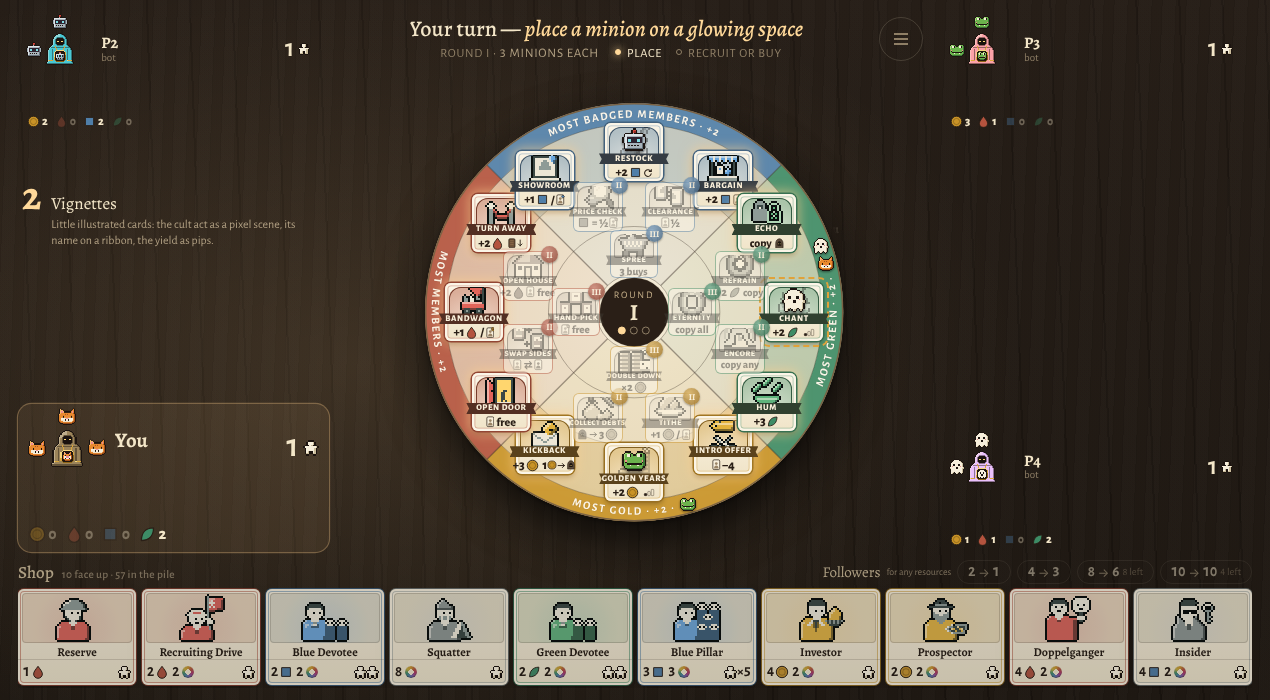
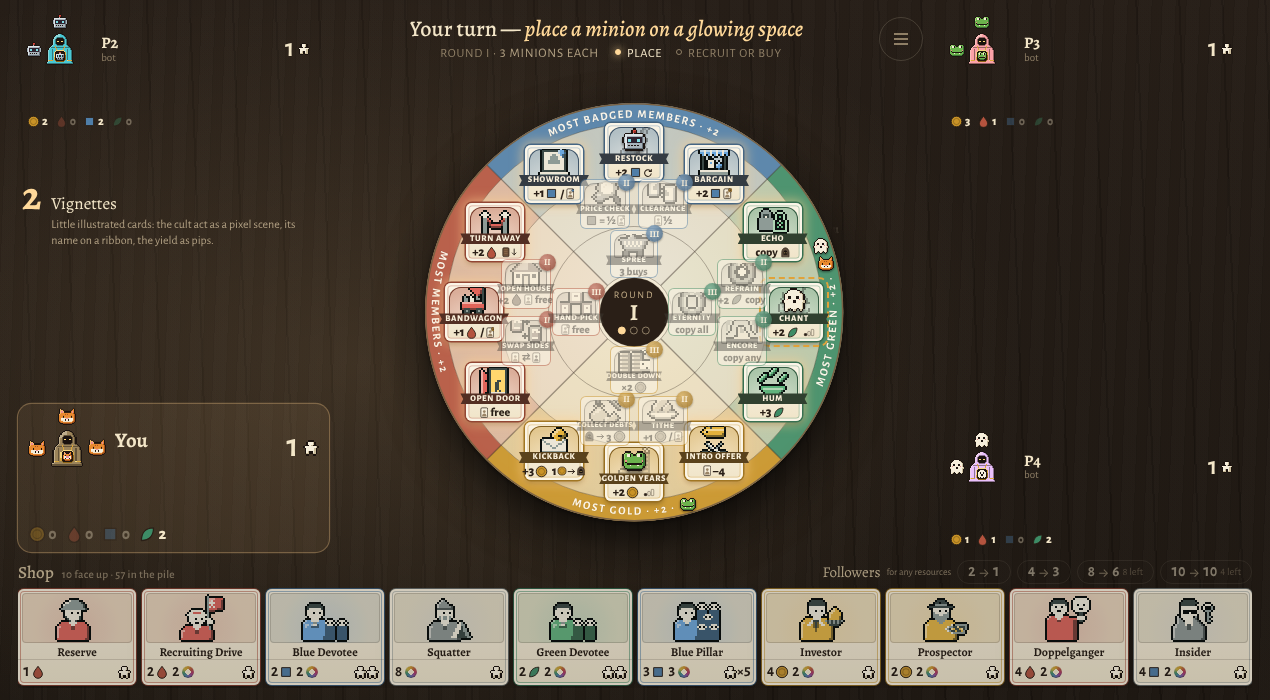
WIP checkpoint: agents in progress
Claude-Session: https://claude.ai/code/session_017rw3aQa9iJEjdvvwQLY84z

Changed region(s): [[0.3378, 0.18, 0.6449, 0.69]]

diff --git a/src/test/v4/ui/info.test.jsx b/src/test/v4/ui/info.test.jsx
@@ -4,8 +4,9 @@ import { render, fireEvent, cleanup, within } from '@testing-library/react';
 import { createGame, cardDef, defById, allQuadrantIds, quadrant } from '../../../engine/v4/index.js';
 import { guestMembers } from '../../../engine/v4/content/index.js';
 import { BADGE } from '../../../engine/v4/content/market.js';
-import Shop from '../../../v4/game/Shop.jsx';
-import Players from '../../../v4/game/Players.jsx';
+import ShopCards from '../../../v4/game/ShopCards.jsx';
+import CultSeat from '../../../v4/game/CultSeat.jsx';
+import { SeatCard } from '../../../v4/game/HoverCards.jsx';
 import { Log, ChoicePrompt, CardFace } from '../../../v4/game/parts.jsx';
 import { MemberCard, NamedText, CardText } from '../../../v4/game/Info.jsx';
 import { GLOSSARY, splitTerms, term } from '../../../v4/glossary.js';
@@ -24,38 +25,67 @@ function marketState() {
   const plain = all.filter(u => price(cardDef(s, u)) < BADGE);
   s.shop = [badged[0], plain[0], ...s.shop.filter(u => u !== badged[0] && u !== plain[0])].slice(0, 10);
   s.pile = all.filter(u => !s.shop.includes(u) && u !== badged[1]);
-  s.players[1].members = [badged[1]];
-  return { s, badged, plain };
-}
-
+// Ported from the retired Shop.jsx / Players.jsx to what the table shows now: the shop strip (ShopCards), each cult at
+// the table (CultSeat: its member figures and their cards) and a cult's card (SeatCard: its member list).
 describe('badges are visible wherever a card shows (Blue on the table)', () => {
-  it('shop cards, rival chips and the card face carry ◆ only on badged members, and ◆ opens "badged"', () => {
+  it('shop cards, a rival\'s cult and the card face carry ◆ only on badged members, and ◆ opens "badged"', () => {
     const { s, badged, plain } = marketState();
-    const { container } = render(<Shop state={s} me={0} mine={false} optionFor={none} onPick={() => {}} variant="full" />);
+    const { container } = render(<ShopCards state={s} me={0} mySeats={[0]} optionFor={none} onPick={() => {}} />);
     const card = uid => container.querySelector(`.card[data-uid="${uid}"]`);
     expect(card(badged[0]).querySelector('.badge-mark')).not.toBeNull();
     expect(card(plain[0]).querySelector('.badge-mark')).toBeNull();
     // every shown card agrees with the printed-cost rule
-    for (const el of container.querySelectorAll('.card[data-uid]')) {
+    const shown = container.querySelectorAll('.card[data-uid]');
+    expect(shown.length).toBe(s.shop.length);
+    for (const el of shown) {
       const d = cardDef(s, Number(el.dataset.uid));
       expect(!!el.querySelector('.badge-mark'), d.name).toBe(price(d) >= BADGE);
     }
     fireEvent.click(card(badged[0]).querySelector('.badge-mark'));
     expect(document.querySelector('[data-tip-body]').textContent).toMatch(new RegExp(`Badged.*${BADGE} or more`));
     cleanup();
-    const pl = render(<Players state={s} active={null} mySeats={[0]} />);
-    const chip = pl.container.querySelector(`[data-pid="1"] .chip[data-g]`);
-    expect(chip.querySelector('.badge-mark')).not.toBeNull();
+    // a rival's cult at the table: the badged member's card (tap its figure) carries ◆
+    const bo = cardDef(s, badged[1]);
+    const seat = render(<CultSeat state={s} pid={1} me={0} />);
+    const fig = seat.container.querySelector(`[data-member="${bo.id}"] .fig`);
+    expect(fig).not.toBeNull();
+    fireEvent.click(fig);
+    const tip = document.querySelector('[data-tip-body]');
+    expect(tip.querySelector(`[data-card="${bo.id}"]`)).not.toBeNull();
+    expect(tip.querySelector('.badge-mark')).not.toBeNull();
+    cleanup();
+    // the rival's cult card lists its members by name, ◆ on the badged one
+    const sc = render(<SeatCard state={s} pid={1} meId={0} />);
+    const listed = sc.container.querySelector(`[data-card-name="${bo.id}"]`);
+    expect(listed).not.toBeNull();
+    expect(listed.querySelector('.badge-mark')).not.toBeNull();
     cleanup();
     const face = render(<CardFace state={s} uid={badged[1]} />);
     expect(face.container.querySelector('.badge-mark')).not.toBeNull();
     expect(face.container.textContent).toMatch(/Bo’s/); // the owner, on the card
   });
 
+  // KNOWN GAP (harness port, 2026-10-14): the retired Players strip put ◆ on each rival member chip, so a Blue table
+  // read "who holds badged members" at a glance. CultSeat's member figures carry no ◆ (only their opened card does).
+  // Kept strict and marked as failing; when the figures get their ◆ this turns red: make it a plain `it`.
+  it.fails('a rival\'s badged member carries ◆ at their seat without opening anything (KNOWN GAP: CultSeat figures)', () => {
+    const { s, badged, plain } = marketState();
+    s.players[1].members.push(plain[1]);
+    const seat = render(<CultSeat state={s} pid={1} me={0} />);
+    const at = uid => seat.container.querySelector(`[data-member="${cardDef(s, uid).id}"]`);
+    expect(at(plain[1]).querySelector('.badge-mark')).toBeNull();
+    expect(at(badged[1]).querySelector('.badge-mark')).not.toBeNull();
+  });
+
   it('no badges on a table without Blue', () => {
     const s = createGame({ seats, seed: 5 });
-    const { container } = render(<Shop state={s} me={0} mine={false} optionFor={none} onPick={() => {}} variant="full" />);
+    const { container } = render(<ShopCards state={s} me={0} mySeats={[0]} optionFor={none} onPick={() => {}} />);
+    expect(container.querySelectorAll('.card[data-uid]').length).toBe(s.shop.length);
     expect(container.querySelector('.badge-mark')).toBeNull();
+  });
+});
+
+  expect(container.querySelector('.badge-mark')).toBeNull();
   });
 });
 

diff --git a/src/test/engine/v4/even-swap.test.js b/src/test/engine/v4/even-swap.test.js
@@ -1,0 +1,96 @@
+// @vitest-environment node
+// Even Swap (Red, ring I; Cory 2026-10-14, "let's try it"): "+1 red, and swap one of your members for a rival's of
+// equal cost." It replaced Scout. It is Swap Sides' weak twin and shares its swap: the same options, the same
+// handler, the same protection (a Bodyguard owner's members are out of reach), and no fallback when there's no pair.
+import { describe, it, expect, beforeEach, afterEach } from 'vitest';
+import { contextFor, followers } from '../../../engine/v4/core.js';
+import { quadrant } from '../../../engine/v4/content/index.js';
+import { take, move, uidOf, ids, pinCosts } from './helpers.js';
+import { sceneQ } from './cards-helpers.js';
+
+// printed costs these tests are written against: Intern 1, Twins 2, Banker 2, Big Family 2, Volunteer 0, Tycoon 6,
+// Bodyguard 2
+const COSTS = {
+  'red.intern': [1, 0], 'red.twins': [1, 1], 'gold.banker': [2, 0], 'red.bigfamily': [1, 1], 'red.volunteer': [0, 0],
+  'gold.tycoon': [3, 3], 'thieves.watchdog': [1, 1],
+};
+let restore;
+beforeEach(() => { restore = pinCosts(COSTS); });
+afterEach(() => { restore(); });
+
+const T = ['gold', 'red', 'thieves', 'green'];
+const R = (s, i = 0) => s.players[i].res;
+const defs = (s, i) => s.players[i].members.map(u => s.cards[u].def);
+const evenSwap = () => quadrant('red').actions.find(a => a.name === 'Even Swap');
+
+describe('Even Swap', () => {
+  it('sits in Red’s outer ring where Scout was, and Scout is gone', () => {
+    const red = quadrant('red').actions;
+    expect(red.filter(a => a.ring === 1).map(a => a.name)).toEqual(['Even Swap', 'Bandwagon', 'Open Door']);
+    expect(red.some(a => a.key === 'scout' || a.name === 'Scout')).toBe(false);
+    expect(evenSwap().text).toBe('+1 red, and swap one of your members for a rival’s of equal cost.');
+  });
+
+  it('+1 red, and offers only rivals’ members of exactly equal cost', () => {
+    let s = sceneQ({ quadrants: T, n: 3, members: [['red.twins', 'red.intern'], ['gold.banker', 'red.volunteer', 'gold.tycoon'], ['red.bigfamily']] });
+    s = take(s, 'Even Swap');
+    expect(R(s).red).toBe(1);
+    const twins = uidOf(s, 'red.twins', 0);
+    // Twins (2) ↔ Banker (2) or Big Family (2); Intern (1) matches nobody; Volunteer (0) and Tycoon (6) are never offered
+    expect(ids(s).sort()).toEqual([`trade:${twins}:${uidOf(s, 'gold.banker', 1)}`, `trade:${twins}:${uidOf(s, 'red.bigfamily', 2)}`].sort());
+    expect(s.pending.prompt).toMatch(/^Even Swap:/);
+  });
+
+  it('the swap moves both members, and their followers with them', () => {
+    let s = sceneQ({ quadrants: T, members: [['red.twins'], ['red.bigfamily']] });
+    const before = [followers(s, s.players[0]), followers(s, s.players[1])];
+    s = take(s, 'Even Swap');
+    s = move(s, `trade:${uidOf(s, 'red.twins', 0)}:${uidOf(s, 'red.bigfamily', 1)}`);
+    expect(defs(s, 0)).toEqual(['red.bigfamily']);
+    expect(defs(s, 1)).toEqual(['red.twins']);
+    // Big Family is worth 3, Twins 2: one follower changes hands with them
+    expect([followers(s, s.players[0]), followers(s, s.players[1])]).toEqual([before[0] + 1, before[1] - 1]);
+    expect(s.log).toContain("P1 traded Twins for P2's Big Family.");
+  });
+
+  it('respects Bodyguard: its owner’s members can’t be swapped for, like Swap Sides', () => {
+    let s = sceneQ({ quadrants: T, n: 3, members: [['red.twins'], ['thieves.watchdog', 'gold.banker'], ['red.bigfamily']] });
+    s = take(s, 'Even Swap');
+    expect(ids(s)).toEqual([`trade:${uidOf(s, 'red.twins', 0)}:${uidOf(s, 'red.bigfamily', 2)}`]);
+    // the only equal-cost rival is guarded: +1 red and nothing else
+    let t = sceneQ({ quadrants: T, members: [['red.twins'], ['thieves.watchdog', 'gold.banker']] });
+    t = take(t, 'Even Swap');
+    expect(R(t).red).toBe(1);
+    expect(t.pending?.kind).not.toBe('choose');
+    expect(defs(t, 0)).toEqual(['red.twins']);
+  });
+
+  it('Lie Low doesn’t stop it (it shields resources only)', () => {
+    let s = sceneQ({ quadrants: T, members: [['red.twins'], ['gold.banker']] });
+    s.players[1].hideout = s.round;
+    s = take(s, 'Even Swap');
+    expect(ids(s)).toEqual([`trade:${uidOf(s, 'red.twins', 0)}:${uidOf(s, 'gold.banker', 1)}`]);
+  });
+
+  it('with no members of your own: +1 red, nothing to swap, no fallback', () => {
+    const s = take(sceneQ({ quadrants: T, members: [[], ['gold.banker']] }), 'Even Swap');
+    expect(R(s)).toMatchObject({ red: 1, gold: 0 });
+    expect(s.pending?.kind).not.toBe('choose');
+    expect(s.log).toContain('P1 had no equal-cost member to swap.');
+    expect(defs(s, 1)).toEqual(['gold.banker']);
+  });
+
+  it('when no rival holds a member of equal cost: +1 red and nothing else', () => {
+    const s = take(sceneQ({ quadrants: T, n: 3, members: [['red.intern', 'red.twins'], ['red.volunteer', 'gold.tycoon'], []] }), 'Even Swap');
+    expect(R(s).red).toBe(1);
+    expect(s.pending?.kind).not.toBe('choose');
+    expect(defs(s, 0)).toEqual(['red.intern', 'red.twins']);
+  });
+
+  it('bots value it like Swap Sides does: +1 for the red, +1 when a swap is there', () => {
+    const none = sceneQ({ quadrants: T, members: [['red.intern'], ['gold.banker']] });
+    expect(evenSwap().estimate(contextFor(none), none.players[0])).toBe(1);
+    const pair = sceneQ({ quadrants: T, members: [['red.twins'], ['gold.banker']] });
+    expect(evenSwap().estimate(contextFor(pair), pair.players[0])).toBe(2);
+  });
+});
